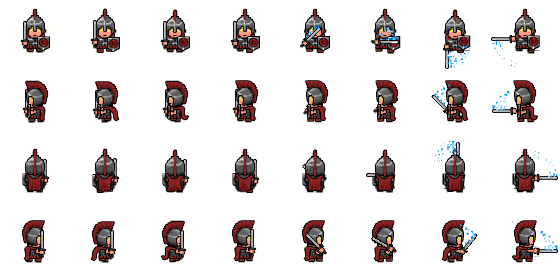
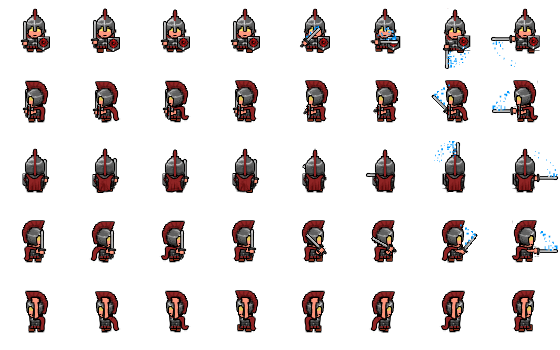
imagen para el jugador sosteniendo el totem, brillo del jugador en la oscuridad, pillar, imagen end

diff --git a/js/gameObject/player/player.js b/js/gameObject/player/player.js
@@ -30,7 +30,8 @@ function addPlayer(){
 	player.shield.initTime = game.time.now;
 	player.shield.visible = false;
 
-	player.eyes = game.add.sprite( this.x+17, this.y+10, 'shield');
+	player.eyes = game.add.sprite( this.x, this.y, 'playereyes');
+	player.eyes.scale.setTo(1.3, 1.3);
 	player.eyes.visible = false;
 
 	player.blood = player.addChild(addBlood());
@@ -103,6 +104,10 @@ function addPlayerAnimations(){
 	player.animations.add('attack_left', [12, 13, 14, 15], frames_per_second, false);
 	player.animations.add('attack_right', [28, 29, 30, 31], frames_per_second, false);
 	player.animations.add('attack_back', [20, 21, 22, 23], frames_per_second, false);
+
+	// animaciones para sostener un totem
+	player.animations.add('totem_left', [32, 33, 34, 35], frames_per_second, true);
+	player.animations.add('totem_right', [36, 37, 38, 39], frames_per_second, true);
 }
 
 
@@ -277,9 +282,18 @@ function movePlayer(){
 }
 
 
-// cuando se realiza un ataque, se reproduce la animación correspondiente a la dirección del jugador
+// cuando no se realiza un ataque, se reproduce la animación correspondiente a la dirección del jugador
 function playAnimations(new_direction){
-	if(!this.is_attacking || this.segment){
+	if(this.is_attacking)
+		return;
+
+	if(this.segment){
+		if(new_direction == 'left' || new_direction == 'right'){
+			this.animations.play('totem_' + new_direction);
+			this.direction = new_direction;
+		}
+	}
+	else{
 		this.animations.play('walk_' + new_direction);
 		this.direction = new_direction;
 	}
@@ -307,8 +321,9 @@ function updatePlayer(){
 
 	this.blood.update();
 
-	this.eyes.x = this.x+17;
-	this.eyes.y = this.y+10;
+	this.eyes.x = this.x;
+	this.eyes.y = this.y;
+	this.eyes.frame = this.frame;
 
 	this.movePlayer();
 	this.attacking();
@@ -339,8 +354,8 @@ function updatePlayer(){
 
 
     if( this.segment ){
-    	this.segment.x = this.body.x + 5;
-		this.segment.y = this.body.y - 45;
+    	this.segment.x = this.body.x + 15;
+		this.segment.y = this.body.y - 25;
     }
 
 	// Cuando se presiona la tecla SPACE, se produce un ataque o se interactúa con un pillar
@@ -362,13 +377,16 @@ function playerOverlapPillar(){
 			if (this.segment != null){
 				if(pillars[i].push(this.segment)){
 					this.segment = null;
+					this.playAnimations(this.direction);
 					return true;
 				}
 			}
 			else{
 				this.segment = pillars[i].pop();
-				if(this.segment)
+				if(this.segment){
+					this.playAnimations(this.direction);
 					return true;
+				}
 			}
 		}
 	}

diff --git a/js/levels/levels.js b/js/levels/levels.js
@@ -45,15 +45,15 @@ endImage.visible = false;
     timeOfWinState = game.time.now;
 
     if(game.global.level == 5){
-        pillars[0].push(segments[4]);
+        pillars[2].push(segments[4]);
         boss.revive();
         boss.reset(); 
     }
     if(game.global.level >= 3){
-        pillars[0].push(segments[3]);
+        pillars[2].push(segments[3]);
     }
-    pillars[0].push(segments[2]);
-    pillars[0].push(segments[1]);
+    pillars[2].push(segments[2]);
+    pillars[2].push(segments[1]);
     pillars[0].push(segments[0]);
 
 
@@ -77,14 +77,14 @@ endImage.visible = false;
             platforms[1].kill();
             platforms[1].position.setTo(50, 220);
 
-            pillars[1].y = 460;
-            pillars[2].y = 460;
+            pillars[1].y = 480;
+            pillars[2].y = 480;
         }
         if(game.global.level == 2){
             platforms[0].revive();
             platforms[0].position.setTo(450, 400);
 
-            pillars[2].y = 380;
+            pillars[2].y = 400;
         }
         else if( game.global.level == 3 ){
             platforms[0].revive();
@@ -92,8 +92,8 @@ endImage.visible = false;
             platforms[1].revive();
             platforms[1].position.setTo(200, 350);
 
-            pillars[1].y = 330;
-            pillars[2].y = 380;
+            pillars[1].y = 350;
+            pillars[2].y = 400;
         }
         else if( game.global.level == 4 ){
             platforms[0].revive();
@@ -101,8 +101,8 @@ endImage.visible = false;
             platforms[1].revive();
             platforms[1].position.setTo(140, 370);
 
-            pillars[1].y = 350;
-            pillars[2].y = 280;
+            pillars[1].y = 370;
+            pillars[2].y = 300;
         }
         else if( game.global.level == 5 ){
             platforms[0].revive();
@@ -110,8 +110,8 @@ endImage.visible = false;
             platforms[1].revive();
             platforms[1].position.setTo(140, 270);
 
-            pillars[1].y = 250;
-            pillars[2].y = 350;
+            pillars[1].y = 270;
+            pillars[2].y = 370;
         }
     },
 

diff --git a/js/levels/initMenu.js b/js/levels/initMenu.js
@@ -235,7 +235,7 @@ initMenu = {
 
 
 	    loseImage = game.add.sprite(0, 0, 'lose');
-	    var text = game.add.text(150, 500, 
+	    text = game.add.text(150, 500, 
 		'Presiona ENTER para volver a jugar...', 
 		{ font: "16pt ferney", fill: '#fff', stroke: '#000000', strokeThickness: 3,
 		wordWrap: true, wordWrapWidth: 600});
@@ -243,8 +243,14 @@ initMenu = {
 	    loseImage.visible = false;
 
 
-	    endImage = game.add.sprite(0, 0, 'win');
-	    var text = game.add.text(400, 400, 
+	    endImage = game.add.sprite(0, 0, 'end');
+	    text = game.add.text(400, 250, 
+		'¡¡¡GANASTE!!!', 
+		{ font: "42pt ferney", fill: '#fff', stroke: '#000000', strokeThickness: 6,
+		wordWrap: true, wordWrapWidth: 600, align: 'center'});
+		text.anchor.setTo(0.5, 0.5);
+		endImage.addChild(text);
+	    text = game.add.text(400, 400, 
 		'Es una lastima que esa bruja te expulsara de las cuevas\n\n\n' +
 		'Preciona ENTER para volver a jugar...', 
 		{ font: "16pt ferney", fill: '#fff', stroke: '#000000', strokeThickness: 3,

diff --git a/js/gameObject/tower/pillar.js b/js/gameObject/tower/pillar.js
@@ -52,9 +52,10 @@ function restartPillars(){
 ****************************************/
 
 function addPillar(id){
-	var pillar = game.add.sprite(100 + (id * 200), 460, 'pillar');
+	var pillar = game.add.sprite(100 + (id * 200), 480, 'pillar');
 	game.physics.enable(pillar, Phaser.Physics.ARCADE);
-	pillar.scale.setTo(0.5, 0.5);
+//	pillar.scale.setTo(1, 1);
+	pillar.anchor.set(0.5);
 
 	pillar.slot = [];
 	pillar.slot[0] = null;
@@ -124,6 +125,6 @@ function popSegment(){
 
 function setSegmentPosition(segment, slot){
 	segment.x = this.x;
-	segment.y = this.y + (slot * 30) - 130;
+	segment.y = this.y + (slot * 30) - 135;
 
 }

diff --git a/js/loading.js b/js/loading.js
@@ -31,6 +31,7 @@ loading = {
     game.load.spritesheet('kaboom', 'assets/pics/explode.png', 128, 128);
 
     game.load.spritesheet('player', 'assets/pics/player.png', 70, 70);
+    game.load.spritesheet('playereyes', 'assets/pics/playereyes.png', 70, 70);
     game.load.spritesheet('attack','assets/pics/attackzone.png', 30, 30);
     game.load.spritesheet('spiral','assets/pics/spiral.png', 44, 38);
     game.load.spritesheet('blood', 'assets/pics/blood.png', 83, 69);

diff --git a/js/gameObject/tower/segment.js b/js/gameObject/tower/segment.js
@@ -12,7 +12,7 @@ function addSegments(){
 
 function addSegment(id){
 	var segment = game.add.sprite(150 + (id * 200), 200, 'segment-' + (id + 1));
-//	segment.scale.setTo(0.5, 0.5);
+	segment.anchor.set(0.5);
 	game.physics.enable(segment, Phaser.Physics.ARCADE);
 
 	segment.id = id + 1;

diff --git a/js/game.js b/js/game.js
@@ -2,7 +2,7 @@
 var game = new Phaser.Game(800, 600, Phaser.AUTO, '');
 
 game.global = {
-	level : 1,
+	level : 5,
 	is_playing : false,
 	lives : 3,
 	health : 100,
